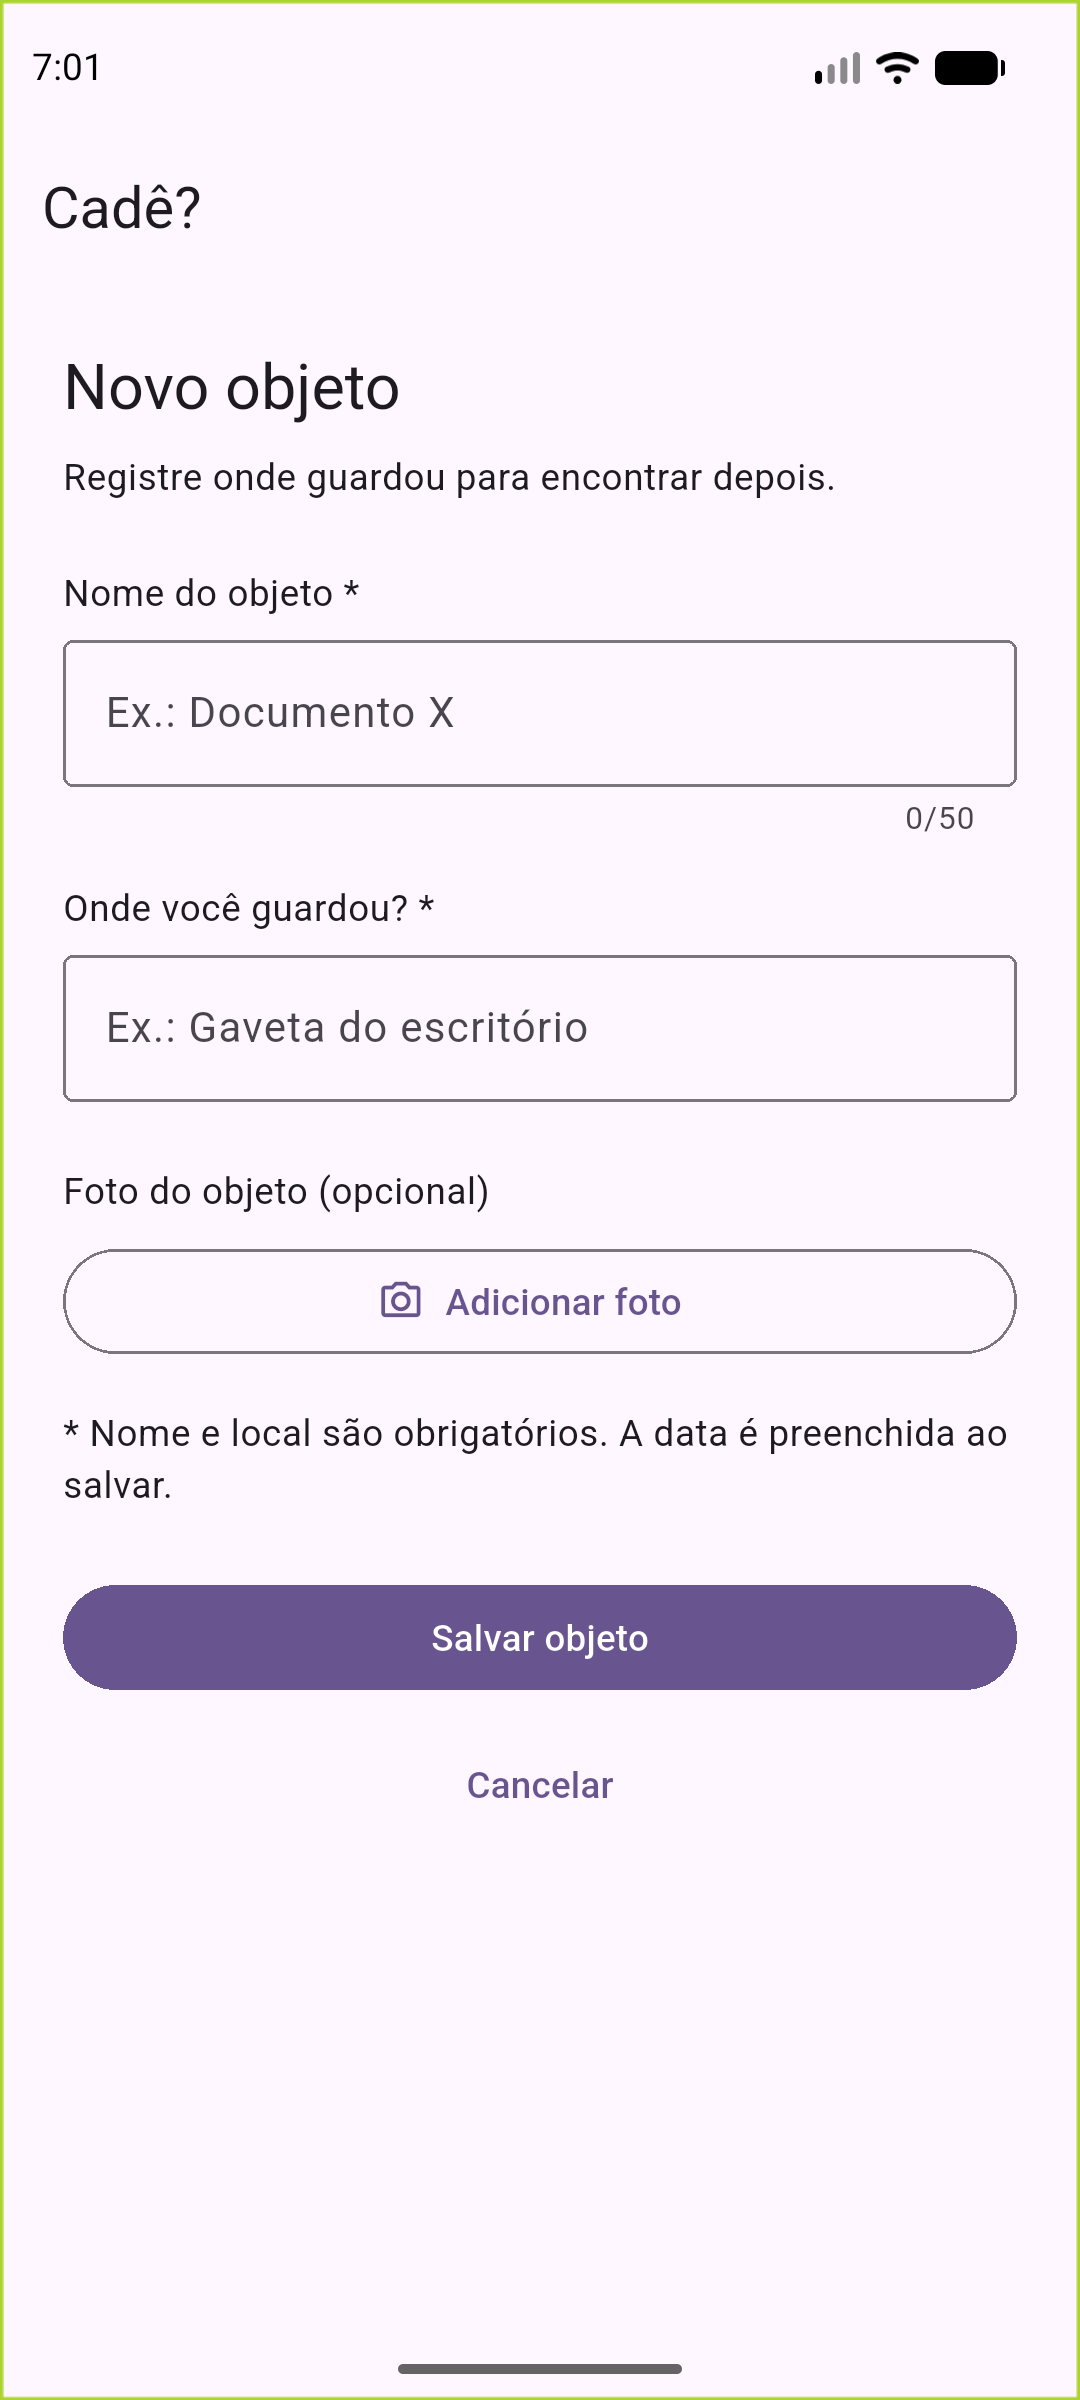
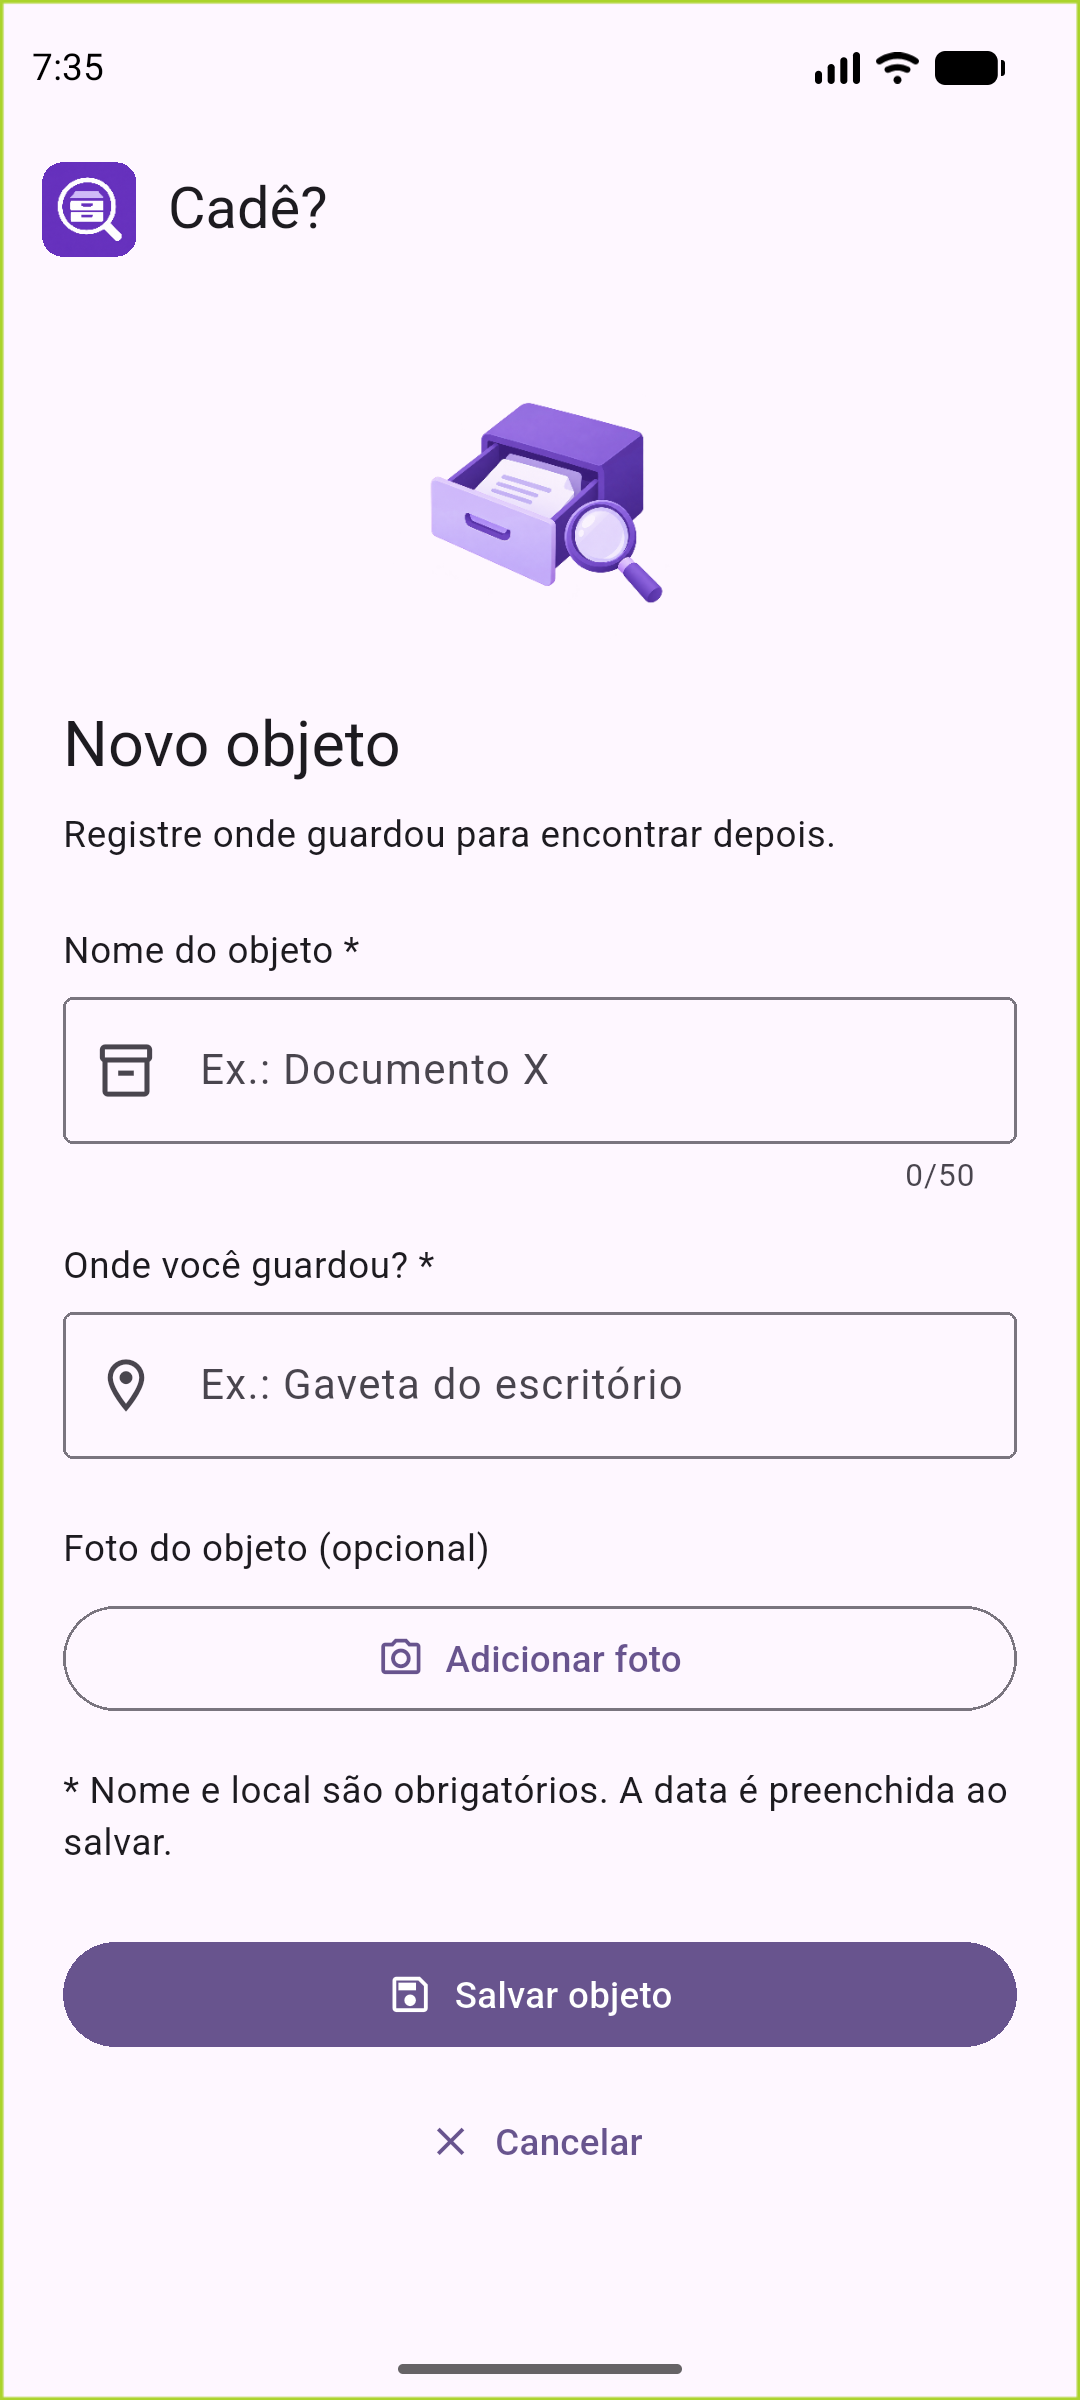
Personaliza ícone e imagens do Cadê

diff --git a/lib/ui/registrar/registrar_view.dart b/lib/ui/registrar/registrar_view.dart
@@ -90,7 +90,24 @@ class _RegistrarViewState extends State<RegistrarView> {
     return PopScope(
       canPop: !ocupado,
       child: Scaffold(
-        appBar: AppBar(title: const Text('Cadê?')),
+        appBar: AppBar(
+          title: Row(
+            children: [
+              ClipRRect(
+                borderRadius: BorderRadius.circular(8),
+                child: Image.asset(
+                  'assets/branding/cade-icon.png',
+                  width: 36,
+                  height: 36,
+                  cacheWidth: 108,
+                  excludeFromSemantics: true,
+                ),
+              ),
+              const SizedBox(width: 12),
+              const Text('Cadê?'),
+            ],
+          ),
+        ),
         body: SafeArea(
           child: SingleChildScrollView(
             padding: const EdgeInsets.all(24),
@@ -102,6 +119,13 @@ class _RegistrarViewState extends State<RegistrarView> {
                   child: Column(
                     crossAxisAlignment: CrossAxisAlignment.stretch,
                     children: [
+                      Image.asset(
+                        'assets/branding/cade-drawer.png',
+                        height: 120,
+                        cacheWidth: 360,
+                        semanticLabel: 'Documento guardado em uma gaveta',
+                      ),
+                      const SizedBox(height: 16),
                       Text(
                         'Novo objeto',
                         style: Theme.of(context).textTheme.headlineSmall,
@@ -120,6 +144,7 @@ class _RegistrarViewState extends State<RegistrarView> {
                           controller: _nome,
                           enabled: !ocupado,
                           decoration: const InputDecoration(
+                            prefixIcon: Icon(Icons.inventory_2_outlined),
                             hintText: 'Ex.: Documento X',
                             errorMaxLines: 3,
                           ),
@@ -141,6 +166,7 @@ class _RegistrarViewState extends State<RegistrarView> {
                           controller: _local,
                           enabled: !ocupado,
                           decoration: const InputDecoration(
+                            prefixIcon: Icon(Icons.location_on_outlined),
                             hintText: 'Ex.: Gaveta do escritório',
                             errorMaxLines: 3,
                           ),
@@ -215,16 +241,18 @@ class _RegistrarViewState extends State<RegistrarView> {
                         ),
                       ],
                       const SizedBox(height: 24),
-                      FilledButton(
+                      FilledButton.icon(
                         onPressed: ocupado ? null : _salvar,
-                        child: Text(
+                        icon: const Icon(Icons.save_outlined),
+                        label: Text(
                           viewModel.salvando ? 'Salvando…' : 'Salvar objeto',
                         ),
                       ),
                       const SizedBox(height: 8),
-                      TextButton(
+                      TextButton.icon(
                         onPressed: ocupado ? null : _limpar,
-                        child: const Text('Cancelar'),
+                        icon: const Icon(Icons.close),
+                        label: const Text('Cancelar'),
                       ),
                     ],
                   ),

diff --git a/tool/gerar_icones.dart b/tool/gerar_icones.dart
@@ -1,0 +1,39 @@
+import 'dart:convert';
+import 'dart:io';
+
+/// Exporta os ícones preservando uma configuração do template atual do Xcode.
+Future<void> main() async {
+  final projetoIos = File('ios/Runner.xcodeproj/project.pbxproj');
+  final configuracao = RegExp(
+    r'ASSETCATALOG_COMPILER_GENERATE_SWIFT_ASSET_SYMBOL_EXTENSIONS\s*=\s*[^;]+;',
+  );
+  final valoresOriginais = configuracao
+      .allMatches(projetoIos.readAsStringSync())
+      .map((match) => match.group(0)!)
+      .toList();
+
+  try {
+    final resultado = await Process.run(
+      Platform.resolvedExecutable,
+      ['run', 'flutter_launcher_icons'],
+      stdoutEncoding: utf8,
+      stderrEncoding: utf8,
+    );
+    stdout.write(resultado.stdout);
+    stderr.write(resultado.stderr);
+    exitCode = resultado.exitCode;
+  } finally {
+    // A versão 0.14.4 também troca indevidamente o valor desta opção booleana.
+    // Restauramos somente essa opção, mantendo os ícones e demais alterações.
+    final gerado = projetoIos.readAsStringSync();
+    if (configuracao.allMatches(gerado).length != valoresOriginais.length) {
+      throw StateError('Revise as configurações de assets do projeto iOS.');
+    }
+    var indice = 0;
+    final corrigido = gerado.replaceAllMapped(
+      configuracao,
+      (_) => valoresOriginais[indice++],
+    );
+    if (corrigido != gerado) projetoIos.writeAsStringSync(corrigido);
+  }
+}

diff --git a/test/registrar_view_test.dart b/test/registrar_view_test.dart
@@ -27,7 +27,7 @@ Future<CadeDatabase> _abrirApp(WidgetTester tester) async {
 }
 
 Future<void> _tocarEmSalvar(WidgetTester tester) async {
-  final botao = find.widgetWithText(FilledButton, 'Salvar objeto');
+  final botao = find.text('Salvar objeto');
   await tester.ensureVisible(botao);
   await tester.tap(botao);
   await tester.pumpAndSettle();
@@ -79,6 +79,7 @@ void main() {
     tester,
   ) async {
     await _abrirApp(tester);
+    await tester.ensureVisible(find.text('Adicionar foto'));
     await tester.tap(find.text('Adicionar foto'));
     await tester.pumpAndSettle();
     expect(find.text('Usar câmera'), findsOneWidget);

diff --git a/docs/identidade-visual.md b/docs/identidade-visual.md
@@ -1,0 +1,41 @@
+# Identidade visual do Cadê
+
+Geradas com a ferramenta integrada `imagegen`, sem uso de API por script. As artes são novas; não são imagens do Flutter. O roxo foi escolhido por já ser a cor-base do aplicativo.
+
+- [cade-icon.png](../assets/branding/cade-icon.png): ícone quadrado com fundo roxo opaco, exportado nos tamanhos do launcher Android/iOS.
+- [cade-drawer.png](../assets/branding/cade-drawer.png): ilustração com transparência real, aplicada à interface de cadastro. A transparência foi conferida no arquivo.
+
+## Prompt do ícone
+
+Create one production-ready square app launcher icon for Cadê, a simple personal offline app that remembers where physical objects were stored. Brand cue already in project: Material deep purple (#673AB7), lavender, white. Image only, no words, letters, numbers, Flutter symbols, watermarks or presentation mockups. A single bold original mark: a white magnifying glass cleverly combined with a small office drawer, making the idea of finding a stored object immediately clear. Flat crisp rounded geometry, minimal details, extremely legible at 48 pixels. Solid deep purple full-bleed square background (no outer rounded-corner mask, no device frame), centered mark occupying central 60 percent with generous safe margins for Android adaptive icon masks. High contrast, polished restrained utility-app identity. Output just the icon artwork, square 1024x1024.
+
+## Prompt da ilustração
+
+Create a single compact illustration asset for the registration screen of Cadê, a mobile app for remembering where objects were stored. Subject: one open office drawer with a neatly stored paper document and a small magnifying glass beside the drawer. Use only deep purple (#673AB7), soft lavender and off-white to match an existing Material purple app. Friendly clean flat illustration with softly rounded forms, very subtle depth, simple silhouette and few details; mature utility app, not a cartoon mascot. Centered isolated composition, generous empty transparent padding, visually balanced as a small header illustration. No text, letters, labels, numbers, logos, Flutter marks, device mockups, checkerboard background or surrounding room. Genuine transparent background. Output only the isolated illustration, square canvas.
+
+## Aplicação
+
+Os arquivos usados pelo aplicativo ficam em `assets/branding/` e estão declarados no `pubspec.yaml`. Os originais gerados também foram preservados no diretório de imagens do Codex.
+
+A branch `style/personalizar-cade` foi criada da `develop` após o merge do cadastro (PR #5). A tela mostra a marca no cabeçalho, a ilustração acima do formulário e ícones Material de objeto, localização, salvar e cancelar. Esses ícones de controles continuam usando a biblioteca já adotada pelo Flutter; a marca e a ilustração são próprias do Cadê. As regras do cadastro e o armazenamento não foram alterados.
+
+Os nomes exibidos no launcher Android e no iOS passaram a ser `Cadê?`. Identificadores internos do aplicativo foram preservados.
+
+## Regenerar ícones nativos
+
+O pacote de desenvolvimento `flutter_launcher_icons` exporta os tamanhos Android/iOS a partir do ícone principal. A configuração fica em `flutter_launcher_icons.yaml`; `remove_alpha_ios` garante ícones sem transparência no catálogo do iOS.
+
+```powershell
+fvm flutter pub get
+fvm dart run tool/gerar_icones.dart
+```
+
+Os PNGs nativos gerados devem acompanhar o commit da imagem de origem. A geração não precisa ser repetida a cada execução do aplicativo.
+
+O script chama o gerador pelo Dart do FVM e preserva `ASSETCATALOG_COMPILER_GENERATE_SWIFT_ASSET_SYMBOL_EXTENSIONS` no projeto Xcode. Na versão 0.14.4, o gerador também substitui indevidamente essa opção booleana pelo nome do ícone. O script restaura seu valor original, sem desfazer a exportação das imagens. Esse comportamento foi identificado ao revisar o diff dos arquivos gerados.
+
+## Validação
+
+Os testes existentes do cadastro continuam cobrindo validação, salvamento, explicação da câmera e rótulos em tela estreita com texto ampliado. Os localizadores dos testes foram ajustados para o botão com ícone e para a rolagem até a câmera, sem mudar as regras verificadas.
+
+O ícone iOS é gerado como recurso estático; a compilação do aplicativo iOS continua dependendo de validação em ambiente Apple.

diff --git a/docs/cadastro.md b/docs/cadastro.md
@@ -96,6 +96,6 @@ Os testes usam SQLite real e substituem o serviço de mídias, evitando depender
 
 ## Situação da entrega
 
-A implementação está na branch `feature/SCRUM-86-tela-cadastro`, criada da `develop` depois do merge do protótipo. Commit, push e PR desta implementação dependem da aprovação do solicitante. O resultado do CI remoto desta mudança só poderá ser conferido após sua publicação.
+A implementação foi publicada na branch `feature/SCRUM-86-tela-cadastro`, criada da `develop` depois do merge do protótipo, e integrada pelo [PR #5](https://github.com/matheusEmanoels/cadesystem/pull/5). O [CI remoto do cadastro](https://github.com/matheusEmanoels/cadesystem/actions/runs/40224676594) passou. A personalização da marca e das imagens é descrita na [identidade visual](identidade-visual.md).
 
-A preparação e seus documentos têm evidências registradas no Jira e estão em análise. A confirmação de execução no ambiente do outro integrante e a revisão dele não foram comprovadas. O SCRUM-86 e sua história de cadastro permanecem em andamento até a revisão e publicação desta implementação. A meta de quantidade de toques e os testes com usuários não são comprovados pelos testes automatizados.
+A preparação e seus documentos têm evidências registradas no Jira e estão em análise. A confirmação de execução no ambiente do outro integrante e a revisão dele não foram comprovadas. O SCRUM-86 foi encaminhado para análise com o link do PR; a história de cadastro ainda depende dos demais critérios. A meta de quantidade de toques e os testes com usuários não são comprovados pelos testes automatizados.

diff --git a/README.md b/README.md
@@ -351,6 +351,7 @@ Premissa: 14 semanas, sprints de 2 semanas (ajustar ao calendário real). Os mar
 - [Estrutura de dados e regras do cadastro (SCRUM-84)](docs/estrutura-de-dados.md)
 - [Protótipo de baixa fidelidade do fluxo principal (SCRUM-85)](docs/prototipo.md)
 - [Cadastro implementado, explicação do código e validação (SCRUM-86)](docs/cadastro.md)
+- [Identidade visual, imagens e geração dos ícones](docs/identidade-visual.md)
 - Backlog, Story Map, MVP e Roadmap (artefato interativo)
 - `Cade_Matriz_de_Riscos.xlsx`: riscos do projeto
 
